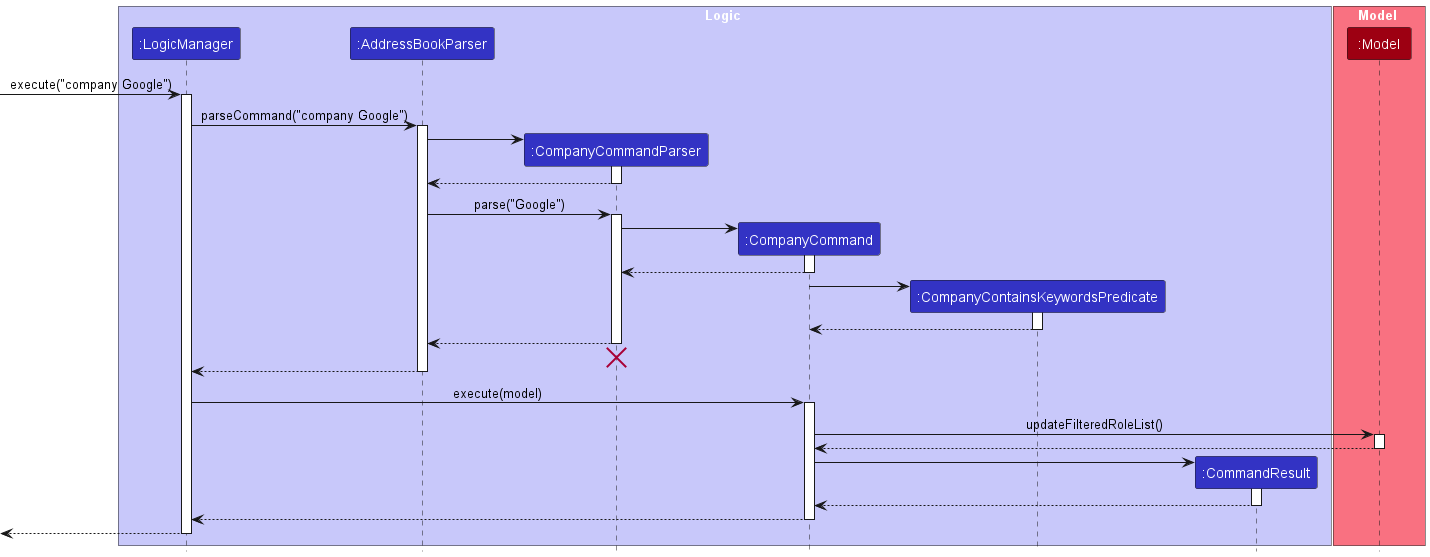
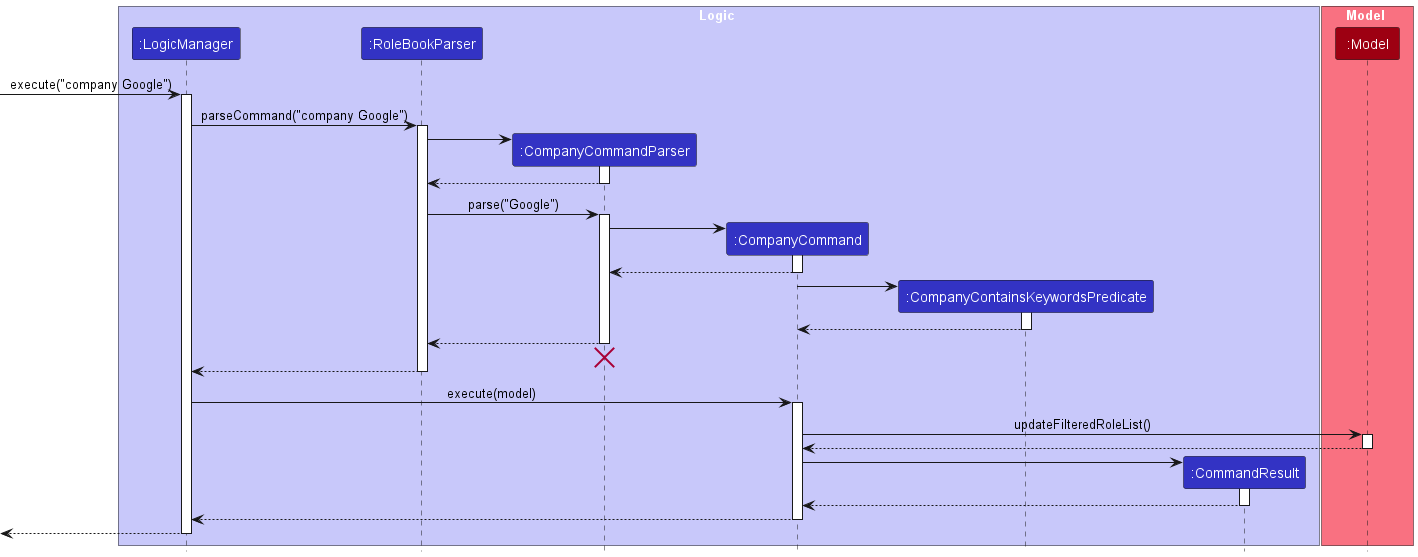
Edit table of contents and Company Command

diff --git a/docs/DeveloperGuide.md b/docs/DeveloperGuide.md
@@ -16,6 +16,11 @@ Todo: Add links
    3. [Model Component]()
    4. [Storage Component]()
 4. [Implementation]()
+   1. [Salary Command]()
+   2. [Deadline Command]()
+   3. [Company Command]()
+   4. [Tag Command]()
+   5. [View Command]()
 
 --------------------------------------------------------------------------------------------------------------------
 
@@ -113,7 +118,7 @@ The `UI` component,
 * executes user commands using the `Logic` component.
 * listens for changes to `Model` data so that the UI can be updated with the modified data.
 * keeps a reference to the `Logic` component, because the `UI` relies on the `Logic` to execute commands.
-* depends on some classes in the `Model` component, as it displays `Person` object residing in the `Model`.
+* depends on some classes in the `Model` component, as it displays `Role` object residing in the `Model`.
 
 ### Logic component
 
@@ -296,15 +301,15 @@ _{more aspects and alternatives to be added}_
 
 ### Company Command Feature
 
-The proposed CompanyCommand feature allows the user to filter companies based on a given keyword. The idea is that the
-user can filter the job list by company which shows all roles pertaining to a certain company.
+The proposed Company Command feature allows the user to filter companies based on a given keyword. This enables the
+user to filter the job list by company which shows all roles pertaining to a certain company.
 
 The feature uses operations in the `Model` interface as `Model#updateFilteredRoleList()`.
 
 Given below is an example usage of how CompanyCommand is being used in the following steps.
 
-1. The user launches the application for the first time. The `AddressBook` will be initialized with the
-   current address book. <img src="images/startUp.png" width="800" />
+1. The user launches the application for the first time. The `RoleBook` will be initialized with the
+   current Role book. <img src="images/startUp.png" width="800" />
 
 2. The user can choose to use the `Company Command` to filter companies.
     - The user executes `company <keyword>` command to filter roles by their company.
@@ -325,8 +330,9 @@ The following activity diagram summarizes what happens when a user executes a ne
 * **Alternative 1 (current choice):** Filter roles that contain the keyword in the company field.
     * Pros: Easy to implement.
     * Cons: More CLI needs to be added if more attributes are needed to sort.
-
-_{more aspects and alternatives to be added}_
+* **Alternative 2 (alternative choice):** Filter roles by using and extending a generic find command.
+    * Pros: Less confusing for the user, as all filtering will be done using a single command. e.g. find c/Google
+    * Cons: Harder to implement, and the addition of multiple parameters may be confusing too.
 
 ### Tag Command Feature
 
